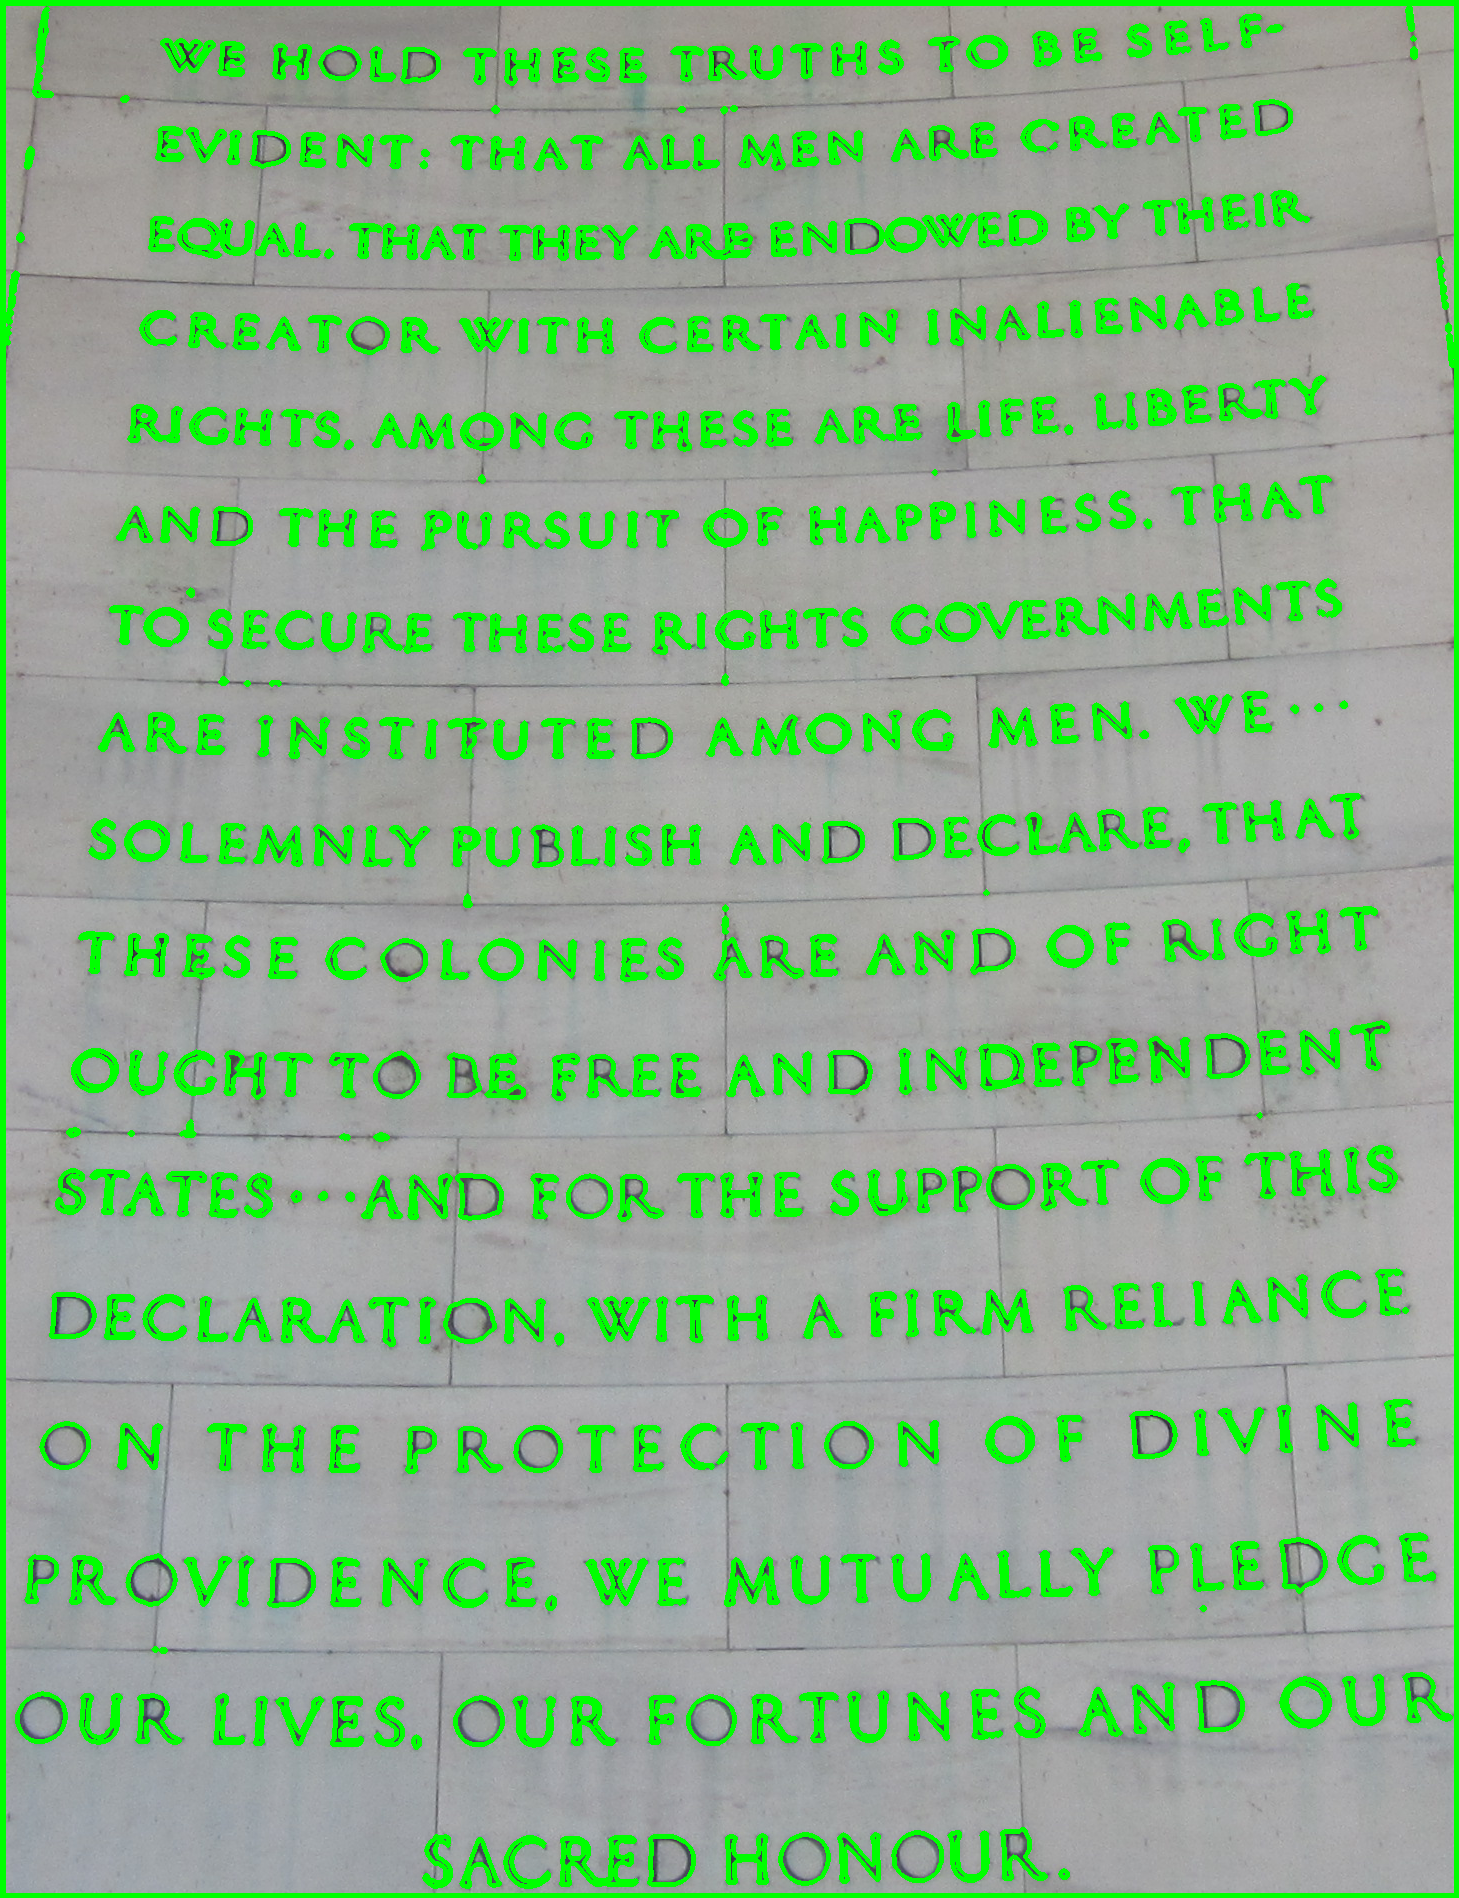
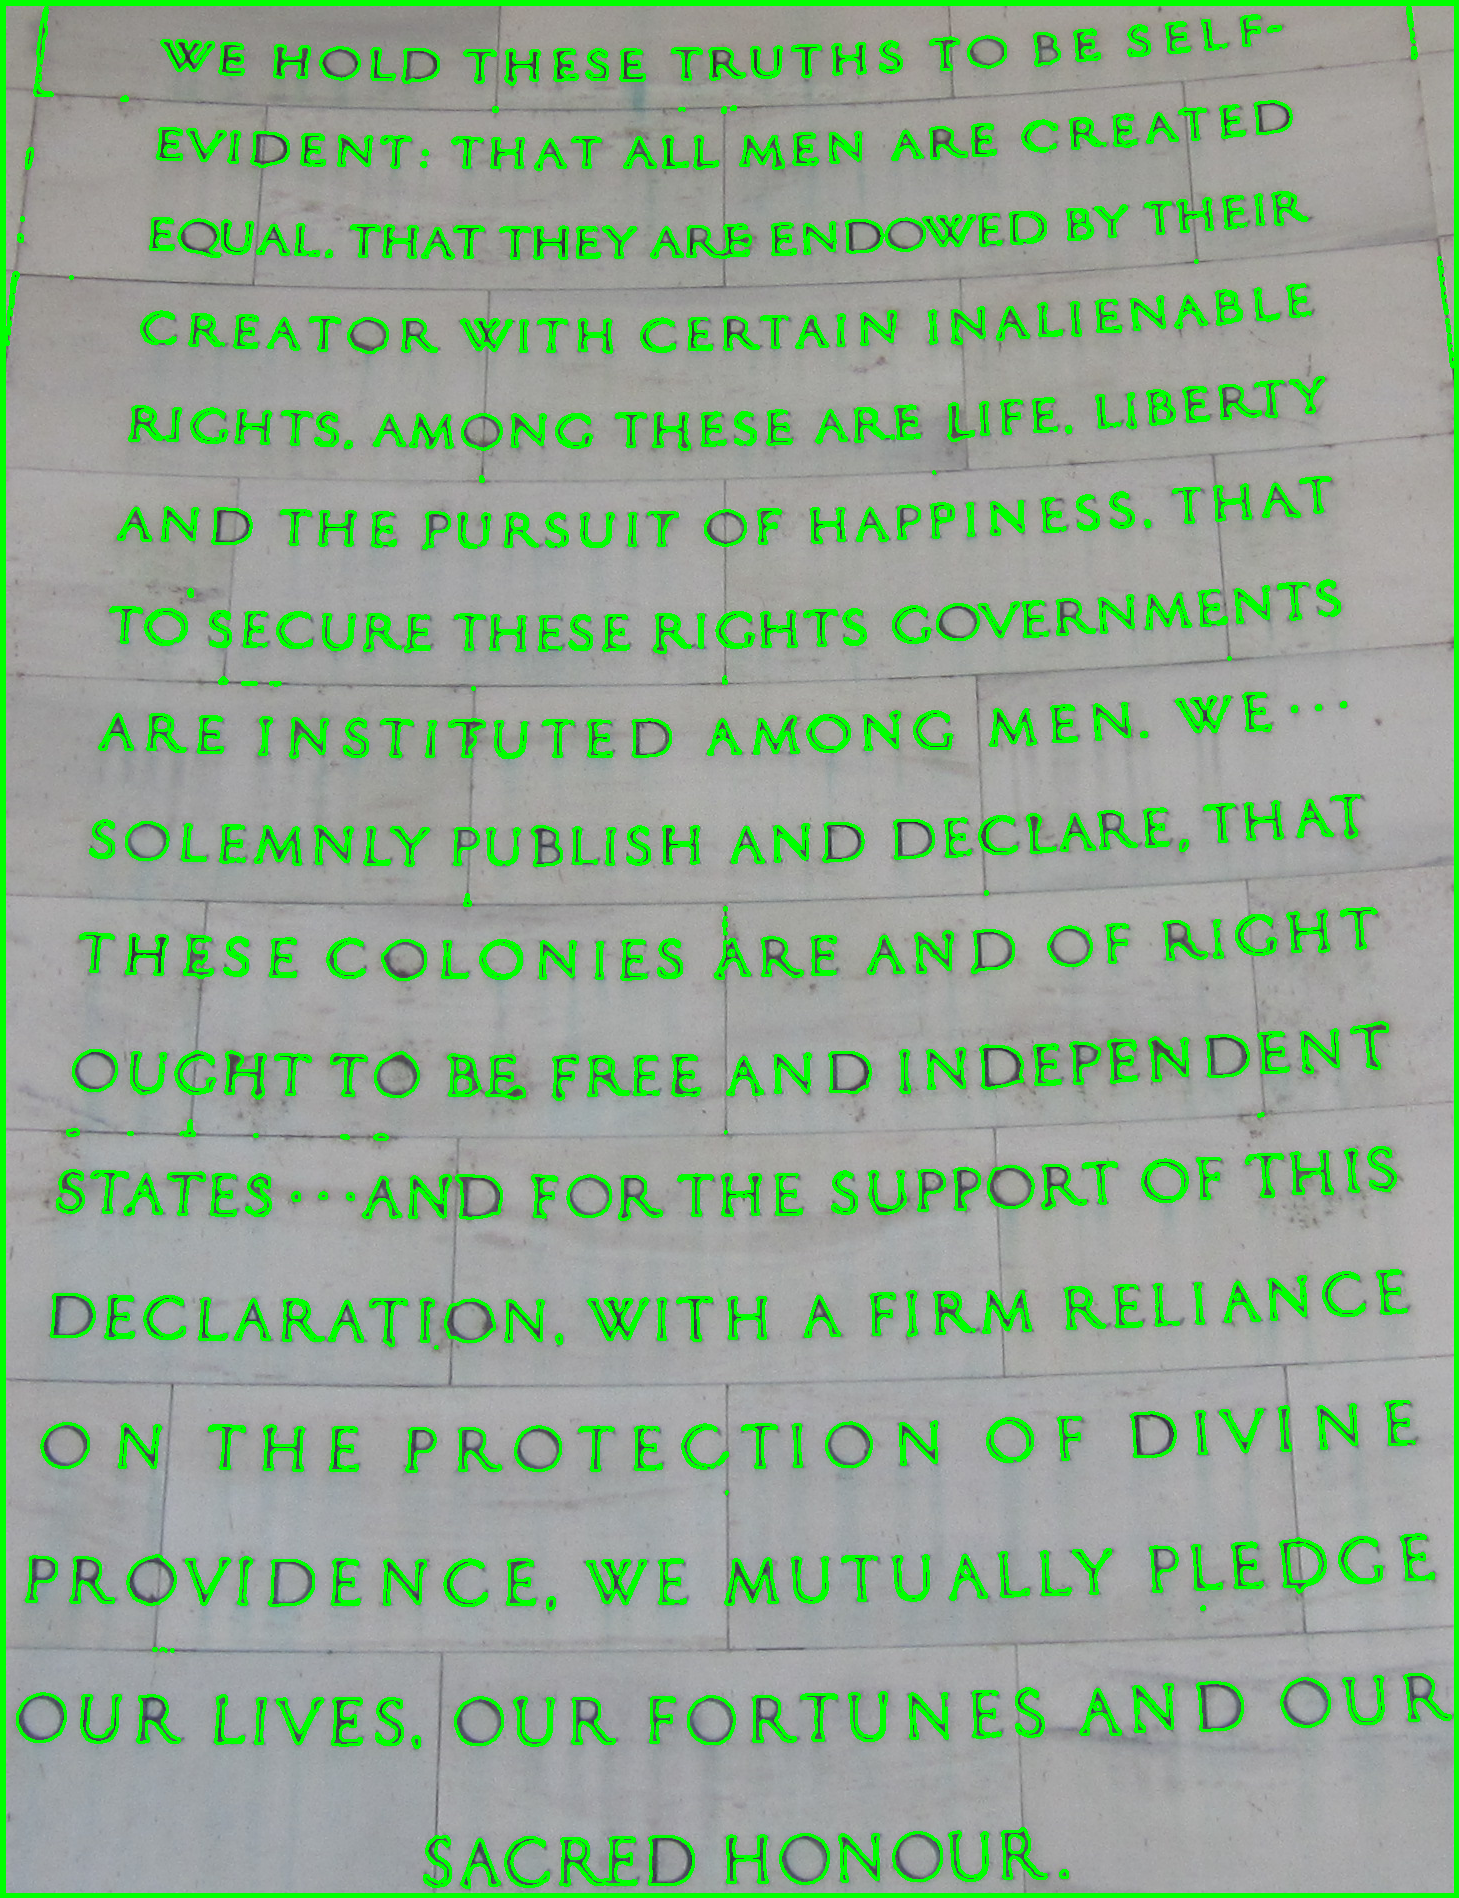
Change code

diff --git a/A3-Edge-Detection/src/A3-Edge-Detection.py b/A3-Edge-Detection/src/A3-Edge-Detection.py
@@ -43,7 +43,7 @@ class EdgeDetection:
 
             self.input_image = "text_image.jpeg"  # Setting default data directory
 
-            print(f"\Input image file name is not specified.\nSetting it to '{self.input_image}'.\n")
+            print(f"Input image file name is not specified.\nSetting it to '{self.input_image}'.\n")
 
         # Define target image file path
         input_image_filepath = data_dir / str(self.input_image)
@@ -69,6 +69,7 @@ class EdgeDetection:
         # Saving image 
         cv2.imwrite(str(out_dir) + '/' + "image_with_contours.png", output_image)
 
+    #-----# Utility functions #-----#
 
     # Defining function for setting directory for the raw data
     def setting_data_directory(self):
@@ -103,7 +104,7 @@ class EdgeDetection:
         
         # Blurring image for optimised detection
         blurred = cv2.GaussianBlur(grey_image, (7,7), 0)
-
+        
         # Applying thresholding (makes image black and white)
         _, image_bw = cv2.threshold(blurred, 115, 255, cv2.THRESH_BINARY)
 
@@ -120,7 +121,7 @@ class EdgeDetection:
                          contours,               
                          -1 , 
                          (0, 255, 0), # Making contours green
-                         3)
+                         2)
 
         return output_image
     
@@ -128,7 +129,7 @@ class EdgeDetection:
 if __name__ == '__main__':
     
     #Create an argument parser from argparse
-    parser = argparse.ArgumentParser(description = "[INFO] Image similarity using color histograms",
+    parser = argparse.ArgumentParser(description = "[INFO] Identifying Letters using Edge Detection ",
                                 formatter_class = argparse.RawTextHelpFormatter)
 
     # Creating argument variable for target image
